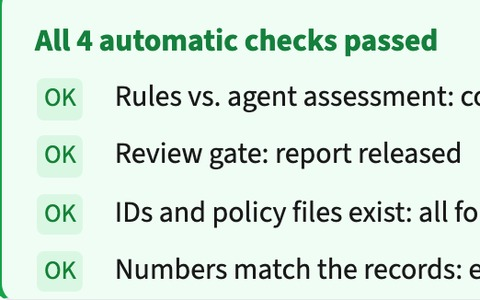
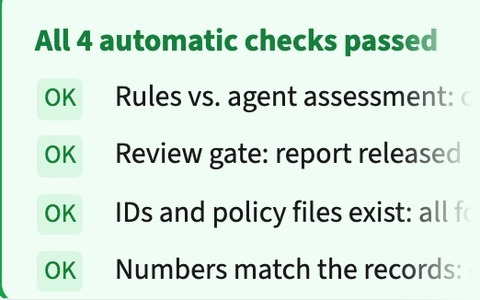
Final pass: spacing fix, keyboard and screen reader cleanup, lighter book covers, readable years, full-width images on narrow cards

diff --git a/src/styles.css b/src/styles.css
@@ -2,7 +2,7 @@
   --ink: #1d2229;
   --ink-2: #3b434d;
   --muted: #5b6470;
-  --faint: #8a93a0;
+  --faint: #6b7480;
   --line: #e6eaf0;
   --line-2: #e3e8ef;
   --chip: #eaf2fb;
@@ -26,7 +26,7 @@ body {
 
 a { color: var(--accent-ink); }
 img { display: block; }
-h1, h2, h3, p, ul, figure { margin: 0; }
+h1, h2, h3, p, ul { margin: 0; }
 
 .eyebrow { font-size: 12px; font-weight: 700; letter-spacing: 2px; color: var(--muted); }
 
@@ -75,7 +75,7 @@ h1, h2, h3, p, ul, figure { margin: 0; }
 .btn-dark:hover { background: #000; color: #fff; }
 .btn-line { border: 1px solid #c9d3df; color: var(--ink); }
 .btn-line:hover { background: #eef3f9; color: var(--ink); }
-.btn-blue { background: var(--accent); color: #fff; font-weight: 600; }
+.btn-blue { background: var(--accent); color: #fff; }
 .btn-blue:hover { background: var(--accent-ink); color: #fff; }
 
 /* ---------- right card ---------- */
@@ -101,13 +101,13 @@ h1, h2, h3, p, ul, figure { margin: 0; }
 .ear:focus-visible, .btn:focus-visible, .chip-link:focus-visible, .cv-ear:focus-visible { outline: 2px solid var(--accent); outline-offset: 2px; }
 
 .cv-ear {
+  font-family: inherit; border: 0; cursor: pointer;
   display: inline-flex; align-items: center; gap: 8px;
   padding: 11px 18px 13px; margin-bottom: -1px; border-radius: 12px 12px 0 0;
   background: var(--accent); color: #fff; font-weight: 600; font-size: 14px; text-decoration: none; white-space: nowrap; flex-shrink: 0;
   position: relative; z-index: 1;
   transition: background-color 160ms ease, transform 160ms ease;
 }
-.cv-ear { font-family: inherit; border: 0; cursor: pointer; }
 .cv-ear:hover { background: var(--accent-ink); color: #fff; transform: translateY(-2px); }
 .cv-ear[aria-pressed='true'] { background: var(--accent); transform: none; cursor: default; }
 
@@ -122,8 +122,6 @@ h1, h2, h3, p, ul, figure { margin: 0; }
   transition: transform 200ms cubic-bezier(0.5, 0, 0.9, 0.4), box-shadow 200ms ease;
 }
 .panel-card.flip-in { transform: rotateY(-90deg) scale(0.97); transition: none; }
-.flipwrap { flex: 1 1 auto; min-height: 0; display: flex; }
-.flipper { flex: 1 1 auto; min-height: 0; display: flex; flex-direction: column; }
 /* CV: the card turns blue and shows the page; the download stays in reach while scrolling. */
 .panel-card.cv-card { background: var(--accent); padding: 20px 20px 24px; }
 .cv-card .scroll { scrollbar-color: rgb(255 255 255 / 0.5) transparent; }
@@ -136,7 +134,6 @@ h1, h2, h3, p, ul, figure { margin: 0; }
 .cv-page-link { display: block; }
 .cv-page { display: block; width: 100%; height: auto; border-radius: 6px; background: #fff; box-shadow: 0 8px 24px rgb(13 40 80 / 0.28); }
 .scroll { scrollbar-gutter: stable; scrollbar-width: thin; scrollbar-color: #c9d3df transparent; }
-.cv-left { display: inline-flex; }
 
 /* ---------- lists ---------- */
 
@@ -152,12 +149,10 @@ h1, h2, h3, p, ul, figure { margin: 0; }
 .title-row h3 { font-size: 17px; font-weight: 700; }
 .year { margin-left: 6px; font-size: 13px; font-weight: 700; color: var(--faint); }
 .summary { color: var(--ink-2); }
-.client { font-weight: 700; color: var(--muted); }
 .status { display: inline-flex; align-items: center; gap: 6px; padding: 2px 10px; border-radius: 999px; background: var(--chip); color: var(--accent-ink); font-size: 12px; font-weight: 700; }
 .status::before { content: ''; width: 6px; height: 6px; border-radius: 50%; background: var(--accent); }
 .meta-row { display: flex; flex-wrap: wrap; align-items: center; gap: 10px 12px; margin-top: 2px; }
 .icons { display: flex; align-items: center; gap: 12px; }
-.proof { font-size: 12px; font-weight: 700; color: var(--muted); }
 .actions { display: inline-flex; gap: 8px; margin-left: auto; }
 .chip-link, .private { display: inline-flex; align-items: center; gap: 6px; padding: 2px 10px; border-radius: 999px; font-size: 13px; font-weight: 700; text-decoration: none; }
 .chip-link { border: 1px solid #c9d3df; color: var(--ink); }
@@ -173,7 +168,7 @@ h1, h2, h3, p, ul, figure { margin: 0; }
   font-size: 12px; font-weight: 700; line-height: 1; padding: 6px 8px; border-radius: 6px; white-space: nowrap;
   opacity: 0; pointer-events: none; transition: opacity 120ms, transform 120ms; z-index: 5;
 }
-.tip:hover::after, .tip:focus-visible::after { opacity: 1; transform: translateX(-50%) translateY(0); }
+.tip:hover::after { opacity: 1; transform: translateX(-50%) translateY(0); }
 
 .project-group + .project-group { margin-top: 28px; }
 .group-title { margin-bottom: 14px; }
@@ -196,6 +191,7 @@ h1, h2, h3, p, ul, figure { margin: 0; }
 .role-body { flex: 1 1 auto; min-width: 0; display: flex; flex-direction: column; gap: 6px; }
 .role-head { display: flex; flex-wrap: wrap; justify-content: space-between; gap: 4px 12px; }
 .role-head strong { font-weight: 700; }
+.role-head .year { margin-left: 0; }
 .org { color: var(--muted); }
 .highlights { list-style: none; padding: 0; display: flex; flex-direction: column; gap: 8px; }
 .highlights li { display: flex; gap: 10px; }
@@ -287,7 +283,11 @@ h1, h2, h3, p, ul, figure { margin: 0; }
 
 /* Featured: image and summary side by side, the decision runs the full card width.
    Narrow cards keep the stacked layout. */
-.featured-list { container-type: inline-size; }
+.rows { container-type: inline-size; }
+/* Narrow cards: the image takes the full width above the text. */
+@container (max-width: 459px) {
+  .project .thumb { width: 100%; height: auto; aspect-ratio: 16 / 10; }
+}
 @container (min-width: 460px) {
   .featured-list > .project { display: grid; grid-template-columns: 200px minmax(0, 1fr); column-gap: 18px; row-gap: 6px; }
   .featured-list > .project > .project-body { display: contents; }

diff --git a/src/app/content.ts b/src/app/content.ts
@@ -17,7 +17,6 @@ export interface Project {
   imageAlt: string;
   summary: string;
   tech: Tech[];
-  proof?: string;
   status?: string;
   client?: string;
   links: ProjectLink[];
@@ -95,7 +94,7 @@ export const profile = {
   ],
   stack: [T.typescript, T.python, T.node, T.angular, T.nest, T.postgres, T.docker, T.openai, T.anthropic, T.gemini],
   stackVisible: 7,
-  skills: ['RAG', 'Tool calling', 'Agents', 'Evals'],
+  skills: ['RAG', 'Tool calling', 'Evals'],
   github: 'https://github.com/GDenizKaratas',
   linkedin: 'https://www.linkedin.com/in/g-deniz-karatas',
   email: 'karatas.gun@gmail.com',
@@ -115,7 +114,6 @@ export const projects: Project[] = [
     summary:
       'Too many flagged transactions for people to review. An AI agent gathers evidence through four read-only tools and RAG; a human decides.',
     tech: [T.python, T.gemini],
-    proof: 'RAG · eval set · 120+ tests',
     links: [{ label: 'View code', url: gh('bank-agent-lab') }],
     group: 'featured',
     story: {
@@ -131,7 +129,6 @@ export const projects: Project[] = [
     summary:
       'Teams were posting the same content to every platform by hand. A multi-tenant NestJS SaaS with one provider interface per platform: X, LinkedIn, Instagram.',
     tech: [T.nest, T.angular, T.prisma, T.openai],
-    proof: '30+ Prisma models · CI',
     links: [
       { label: 'API', url: gh('nest-ai-pilot') },
       { label: 'UI', url: gh('content-pilot-ui') },
@@ -238,7 +235,7 @@ export const projects: Project[] = [
     image: 'images/projects/gantt.png',
     imageAlt: 'A Gantt chart with three tasks',
     client: arteon,
-    summary: 'My first product after the MES work: an interactive Gantt chart for planning tasks and dependencies, with real-time task tracking and a REST API backend.',
+    summary: 'My first product after the MES work: an interactive Gantt chart for planning tasks and dependencies, with real-time task tracking.',
     tech: [T.angular, T.node],
     links: [],
     group: 'client',
@@ -251,7 +248,7 @@ export const roles: Role[] = [
     org: 'Own products, remote',
     period: 'Jun 2025 – now',
     logo: { kind: 'text', text: 'GDK' },
-    summary: 'Client work and my own products, designed and built end to end.',
+    summary: 'Client work and my own products.',
     highlights: [
       { name: 'Multi-Channel Inventory Sync', text: 'Stock sync across sales channels, starting with Shopify.', current: true },
       { name: 'Bank Agent Lab', text: 'AI agent for transaction risk review, with evals.' },
@@ -346,25 +343,25 @@ export const books: Book[] = [
   {
     title: 'The Pragmatic Programmer',
     author: 'David Thomas & Andrew Hunt',
-    cover: 'images/books/pragmatic-programmer.png',
+    cover: 'images/books/pragmatic-programmer.webp',
     note: 'More about habits than code. Taking small, reversible steps is still the advice I find most useful.',
   },
   {
     title: 'A Philosophy of Software Design',
     author: 'John Ousterhout',
-    cover: 'images/books/philosophy-of-software-design.jpg',
+    cover: 'images/books/philosophy-of-software-design.webp',
     note: 'Short and practical. It changed how I think about where complexity should live.',
   },
   {
     title: 'Effective TypeScript',
     author: 'Dan Vanderkam',
-    cover: 'images/books/effective-typescript.png',
+    cover: 'images/books/effective-typescript.webp',
     note: 'Less about clever types, more about making mistakes harder to write.',
   },
   {
     title: 'Designing Data-Intensive Applications',
     author: 'Martin Kleppmann',
-    cover: 'images/books/designing-data-intensive-applications.png',
+    cover: 'images/books/designing-data-intensive-applications.webp',
     note: 'Dense, but worth it. It explains why systems fail and what each design choice really costs.',
   },
 ];

diff --git a/src/app/panels/projects-panel.ts b/src/app/panels/projects-panel.ts
@@ -11,13 +11,13 @@ import { Project, projects } from '../content';
         }
         <div class="rows" [class.featured-list]="section.id === 'featured'">
           @for (p of section.items; track p.name) {
-            <article class="project" [class.featured]="p.story">
+            <article class="project">
               <img class="thumb" [src]="p.image" [alt]="p.imageAlt" width="184" height="115" loading="lazy" />
               <div class="project-body">
                 <div class="title-row">
                   <h3>
                     @if (p.links[0]; as link) {
-                      <a class="title-link" [href]="link.url" target="_blank" rel="noopener">{{ p.name }}</a>
+                      <a class="title-link" [href]="link.url" target="_blank" rel="noopener" tabindex="-1">{{ p.name }}</a>
                     } @else {
                       {{ p.name }}
                     }
@@ -36,7 +36,7 @@ import { Project, projects } from '../content';
                 <div class="meta-row">
                   <div class="icons" role="list" [attr.aria-label]="'Built with ' + techNames(p)">
                     @for (t of p.tech; track t.name) {
-                      <span class="tip" role="listitem" tabindex="0" [attr.data-tip]="t.name" [attr.aria-label]="t.name">
+                      <span class="tip" role="listitem" [attr.data-tip]="t.name" [attr.aria-label]="t.name">
                         <img [src]="t.icon" alt="" width="18" height="18" />
                       </span>
                     }
@@ -46,8 +46,6 @@ import { Project, projects } from '../content';
                       <svg aria-hidden="true" width="12" height="12" viewBox="0 0 24 24" fill="none" stroke="currentColor" stroke-width="3" stroke-linecap="round" stroke-linejoin="round"><path d="M5 12l5 5 9-10"></path></svg>
                       {{ proof }}
                     </span>
-                  } @else if (p.proof) {
-                    <span class="proof">{{ p.proof }}</span>
                   }
                   <span class="actions">
                     @for (link of p.links; track link.url) {

diff --git a/src/app/panels/experience-panel.ts b/src/app/panels/experience-panel.ts
@@ -17,8 +17,8 @@ import { education, languages, roles } from '../content';
           }
           <div class="role-body">
             <div class="role-head">
-              <p><strong>{{ r.title }}</strong> <span class="org">· {{ r.org }}</span></p>
-              <span class="year" style="margin-left: 0">{{ r.period }}</span>
+              <p><strong>{{ r.title }}</strong><span class="org"> · {{ r.org }}</span></p>
+              <span class="year">{{ r.period }}</span>
             </div>
             @if (r.summary) {
               <p class="summary">{{ r.summary }}</p>
@@ -45,10 +45,10 @@ import { education, languages, roles } from '../content';
       <div class="role-row">
         <span class="logo fill" aria-hidden="true"><img src="images/logos/itu.png" alt="" /></span>
         <div class="role-body">
-          @for (e of education; track e.title; let first = $first) {
+          @for (e of education; track e.title) {
             <div class="role-head">
-              <p><strong>{{ e.title }}</strong> <span class="org">· {{ e.org }}</span></p>
-              <span class="year" style="margin-left: 0">{{ e.period }}</span>
+              <p><strong>{{ e.title }}</strong><span class="org"> · {{ e.org }}</span></p>
+              <span class="year">{{ e.period }}</span>
             </div>
             @if (e.note) {
               <p class="summary">{{ e.note }}</p>

diff --git a/src/app/app.html b/src/app/app.html
@@ -71,19 +71,15 @@
         </button>
       </div>
 
-      <section class="card panel-card" aria-label="Work" aria-live="polite" [class.flip-out]="phase() === 'out'" [class.flip-in]="phase() === 'in'" [class.cv-card]="shown() === 'cv'">
-        <div class="flipwrap">
-          <div class="flipper">
-            <div class="scroll">
-              @switch (shown()) {
-                @case ('projects') { <app-projects-panel /> }
-                @case ('experience') { <app-experience-panel /> }
-                @case ('writing') { <app-writing-panel /> }
-                @case ('books') { <app-books-panel /> }
-                @case ('cv') { <app-cv-panel /> }
-              }
-            </div>
-          </div>
+      <section class="card panel-card" aria-label="Work" [class.flip-out]="phase() === 'out'" [class.flip-in]="phase() === 'in'" [class.cv-card]="shown() === 'cv'">
+        <div class="scroll">
+          @switch (shown()) {
+            @case ('projects') { <app-projects-panel /> }
+            @case ('experience') { <app-experience-panel /> }
+            @case ('writing') { <app-writing-panel /> }
+            @case ('books') { <app-books-panel /> }
+            @case ('cv') { <app-cv-panel /> }
+          }
         </div>
       </section>
     </div>

diff --git a/src/app/panels/books-panel.ts b/src/app/panels/books-panel.ts
@@ -4,7 +4,7 @@ import { books } from '../content';
 @Component({
   selector: 'app-books-panel',
   template: `
-    <p class="eyebrow" style="margin-bottom: 14px">FAVORITES</p>
+    <p class="eyebrow group-title">FAVORITES</p>
     <div class="rows">
       @for (book of books; track book.title) {
         <article class="book">
